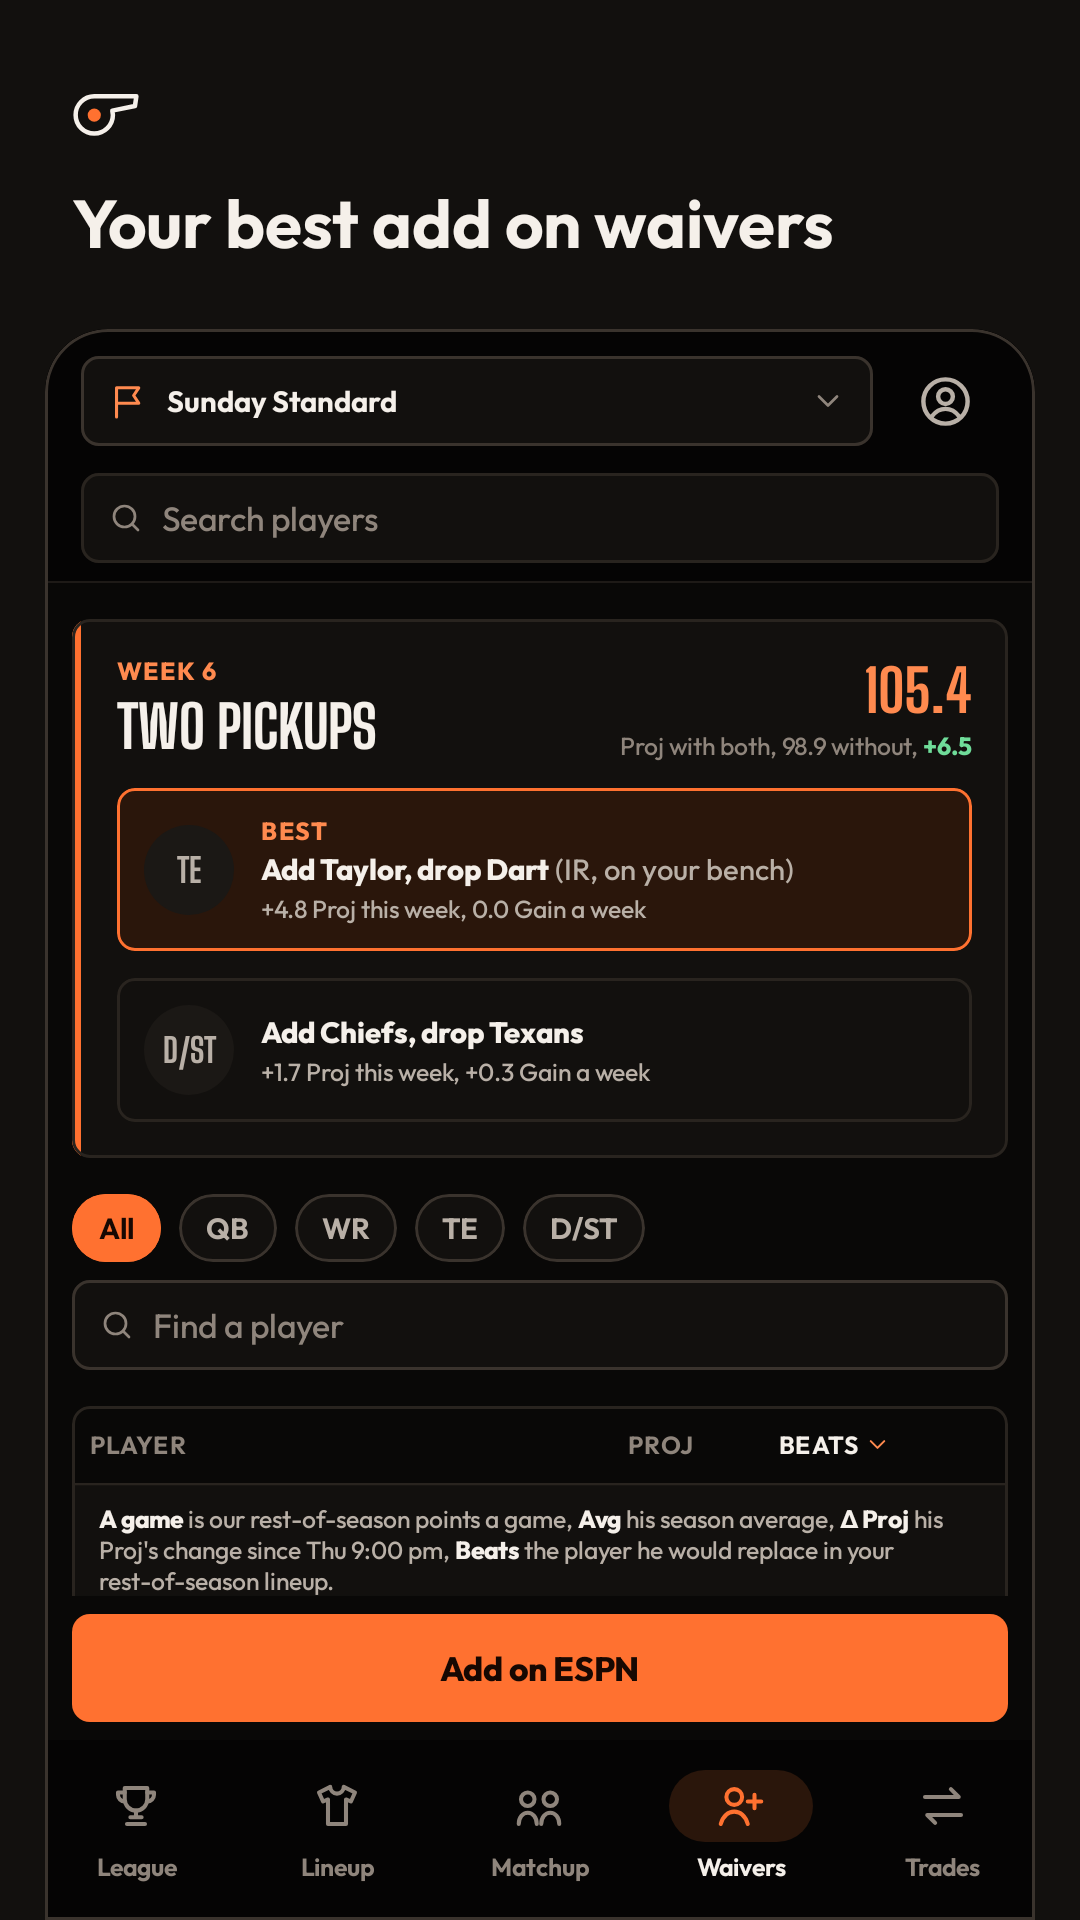
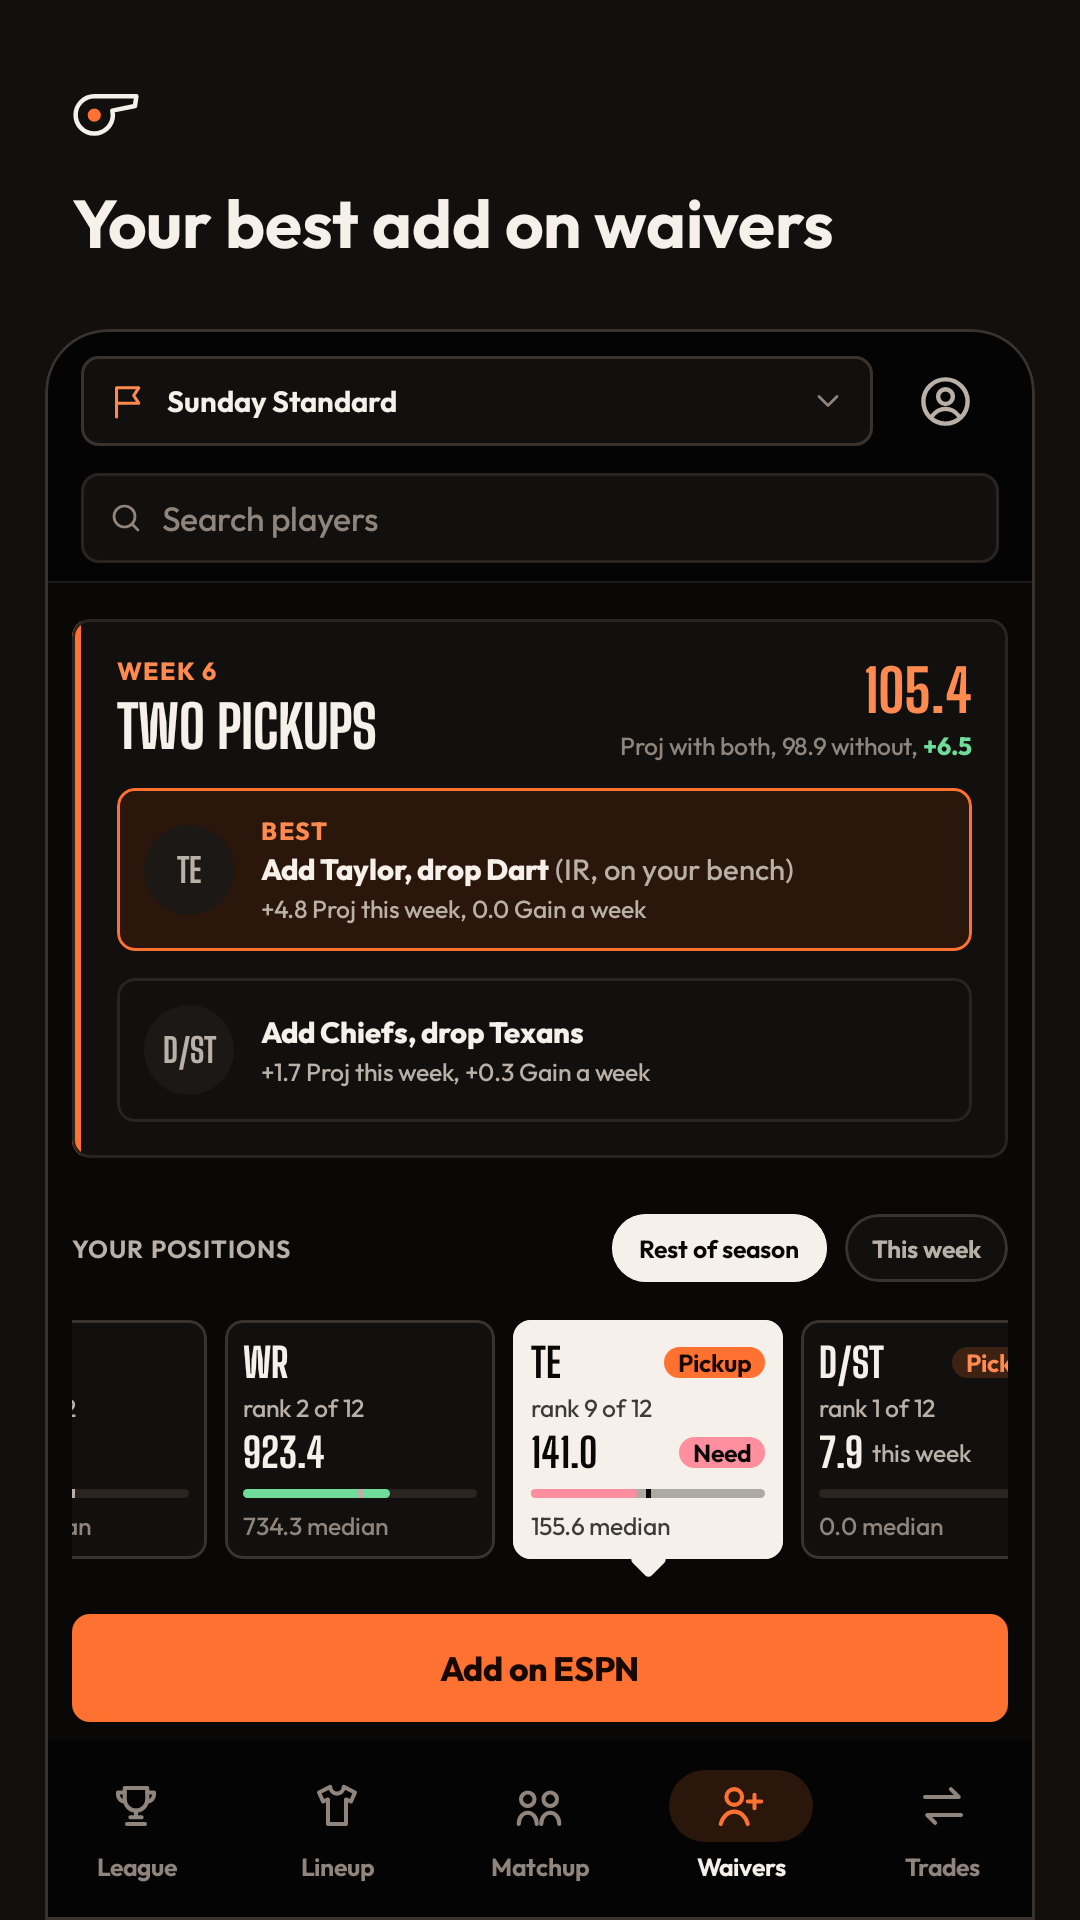
feat(android): the Play listing's Waivers shot redrawn from the position cards (Lane 255 pipeline)

Changed region(s): [[0.0611, 0.625, 0.8861, 0.8438], [0.8556, 0.6562, 0.9472, 0.7188], [0.7944, 0.625, 0.9167, 0.6562]]

diff --git a/apps/android/storeshots/src/test/kotlin/app/trycommish/storeshots/StoreScenes.kt b/apps/android/storeshots/src/test/kotlin/app/trycommish/storeshots/StoreScenes.kt
@@ -12,6 +12,7 @@ import app.trycommish.api.models.LineupSlot
 import app.trycommish.api.models.ScoringPreset
 import app.trycommish.api.models.TradeCheck
 import app.trycommish.api.models.TradeCheckInput
+import app.trycommish.api.models.WaiverAdvice
 import app.trycommish.core.FixedClock
 import app.trycommish.core.MemoryCache
 import app.trycommish.core.SessionEnd
@@ -49,6 +50,7 @@ import app.trycommish.core.trades.TradeMe
 import app.trycommish.core.trades.TradeReads
 import app.trycommish.core.trades.TradesViewModel
 import app.trycommish.core.waivers.WaiverFixtures
+import app.trycommish.core.waivers.WaiverNav
 import app.trycommish.core.waivers.WaiverPosition
 import app.trycommish.core.waivers.WaiverReads
 import app.trycommish.core.waivers.WaiverViewModel
@@ -167,7 +169,7 @@ internal fun everySlotFilled(advice: LineupAdvice): LineupAdvice {
 /** Saturday noon, the wire before it clears: the best add first, the claim pinned. */
 private fun waivers(scheduler: TestCoroutineScheduler): @Composable () -> Unit {
     val league = WaiverFixtures.PENDING
-    val reads = FixtureWaivers(envelopeOf(WaiverFixtures.waivers(league)))
+    val reads = FixtureWaivers(WaiverFixtures.waivers(league))
     val clock = FixedClock(StartFixtures.instant(WaiverFixtures.WEEK))
     val vm = WaiverViewModel(reads, MemoryCache(), clock, Fixtures.zone, storeLeague.host, { true }, {}, {})
     vm.load(league)
@@ -175,7 +177,7 @@ private fun waivers(scheduler: TestCoroutineScheduler): @Composable () -> Unit {
     val ui = vm.ui.value
     val stamp = vm.stampWords(ui)
     val pin = vm.pin(ui)
-    return { WaiverScreen(ui, stamp, pin, refreshing = false, actions = WaiverActions()) }
+    return { WaiverScreen(ui, stamp, pin, refreshing = false, actions = WaiverActions(), still = true) }
 }
 
 /** Saturday noon, the builder with our best idea loaded into its ticks. */
@@ -259,12 +261,14 @@ private const val PLAYER = "rome-odunze"
 
 /** The waiver read as the fixture answers it; no claim is made in a store shot. */
 private class FixtureWaivers(
-    private val body: String,
+    private val advice: WaiverAdvice,
 ) : WaiverReads {
+    /** The page, or a position's own read as the API answers it: that position's rows (the screen opens on
+     * the weakest Need and reads it). */
     override suspend fun waivers(
         leagueId: String,
         position: WaiverPosition?,
-    ): String = body
+    ): String = envelopeOf(position?.let { WaiverNav.atPosition(advice, it.query) } ?: advice)
 
     override suspend fun planMove(
         leagueId: String,

diff --git a/apps/android/feature/waivers/src/main/kotlin/app/trycommish/feature/waivers/WaiverScreen.kt b/apps/android/feature/waivers/src/main/kotlin/app/trycommish/feature/waivers/WaiverScreen.kt
@@ -72,6 +72,8 @@ fun WaiverScreen(
     refreshing: Boolean,
     actions: WaiverActions,
     modifier: Modifier = Modifier,
+    /** Draws the cards and the search at rest (a store shot, which draws one frame and no scroll). */
+    still: Boolean = false,
 ) {
     Column(modifier.fillMaxSize().background(CommishTheme.colors.bg)) {
         PullToRefreshBox(isRefreshing = refreshing, onRefresh = actions.refresh, modifier = Modifier.weight(1f).fillMaxWidth()) {
@@ -87,6 +89,7 @@ fun WaiverScreen(
                         actions,
                         WaiverPart.entries,
                         Modifier.fillMaxSize().verticalScroll(rememberScrollState()),
+                        still,
                     )
             }
         }

diff --git a/docs/store/play-graphics/README.md b/docs/store/play-graphics/README.md
@@ -20,7 +20,7 @@ The script runs `./gradlew :storeshots:testDebugUnitTest -PstoreGraphics=<this f
 | `icon-512.png` | 512 x 512 | 32-bit PNG, RGBA | App icon | `web/static/icons/icon-512.png` pixel for pixel, re-saved with an alpha channel (opaque) |
 | `feature-graphic.png` | 1024 x 500 | 24-bit PNG, no alpha | Feature graphic | The whistle (the `Mark` composable) and "Commish" in Outfit on the dark page colour |
 | `phone-1-lineup.png` | 1080 x 1920 | 24-bit PNG, no alpha | Phone screenshot 1 | "The lineup to start, every week": Lineup, Saturday noon, four changes filling every slot and the verb that makes them |
-| `phone-2-waivers.png` | 1080 x 1920 | 24-bit PNG, no alpha | Phone screenshot 2 | "Your best add on waivers": Waivers, the two pickups with the best first and the claim pinned |
+| `phone-2-waivers.png` | 1080 x 1920 | 24-bit PNG, no alpha | Phone screenshot 2 | "Your best add on waivers": Waivers, the two pickups with the best first, the position cards opening on the weakest Need (TE), and the claim pinned |
 | `phone-3-trades.png` | 1080 x 1920 | 24-bit PNG, no alpha | Phone screenshot 3 | "Trades that help both teams": Trades, two trades worth proposing with each side's gain |
 | `phone-4-matchup.png` | 1080 x 1920 | 24-bit PNG, no alpha | Phone screenshot 4 | "Your game, kept up to date": Matchup, Sunday afternoon with points coming in |
 | `phone-5-rankings.png` | 1080 x 1920 | 24-bit PNG, no alpha | Phone screenshot 5 | "Our rest-of-season order": Rankings, every position with week 6's game beside each player |
